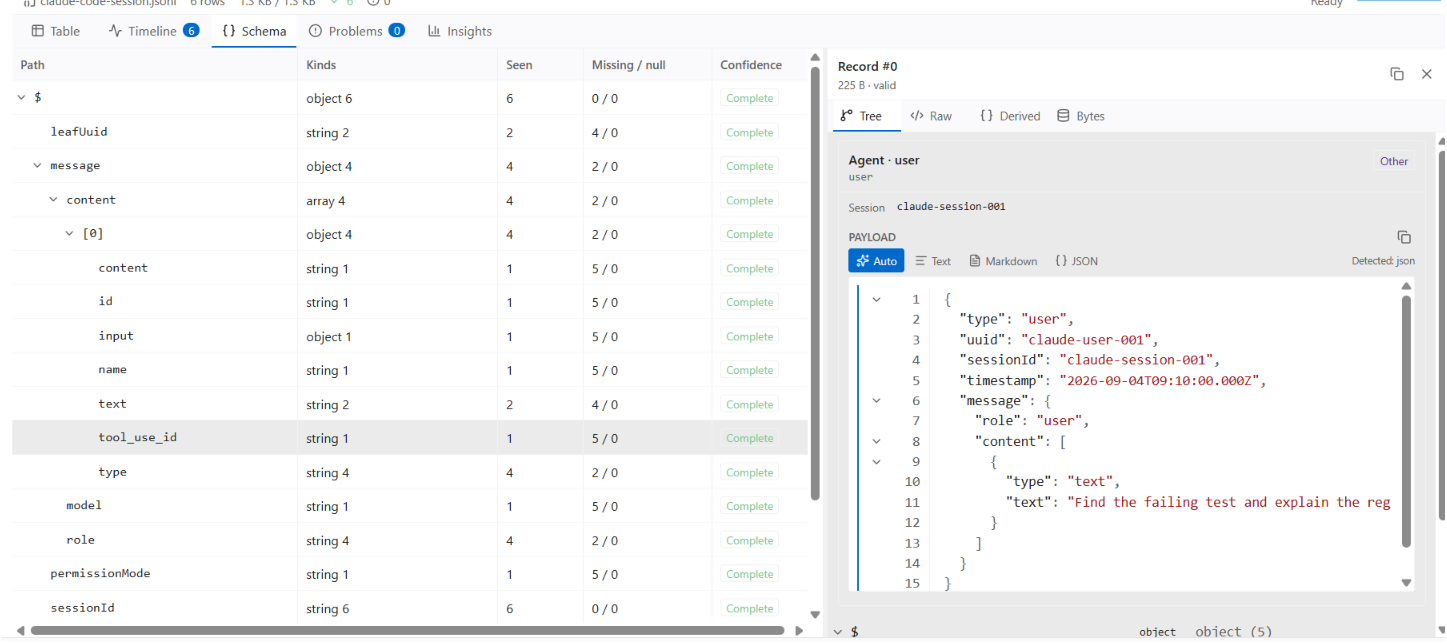
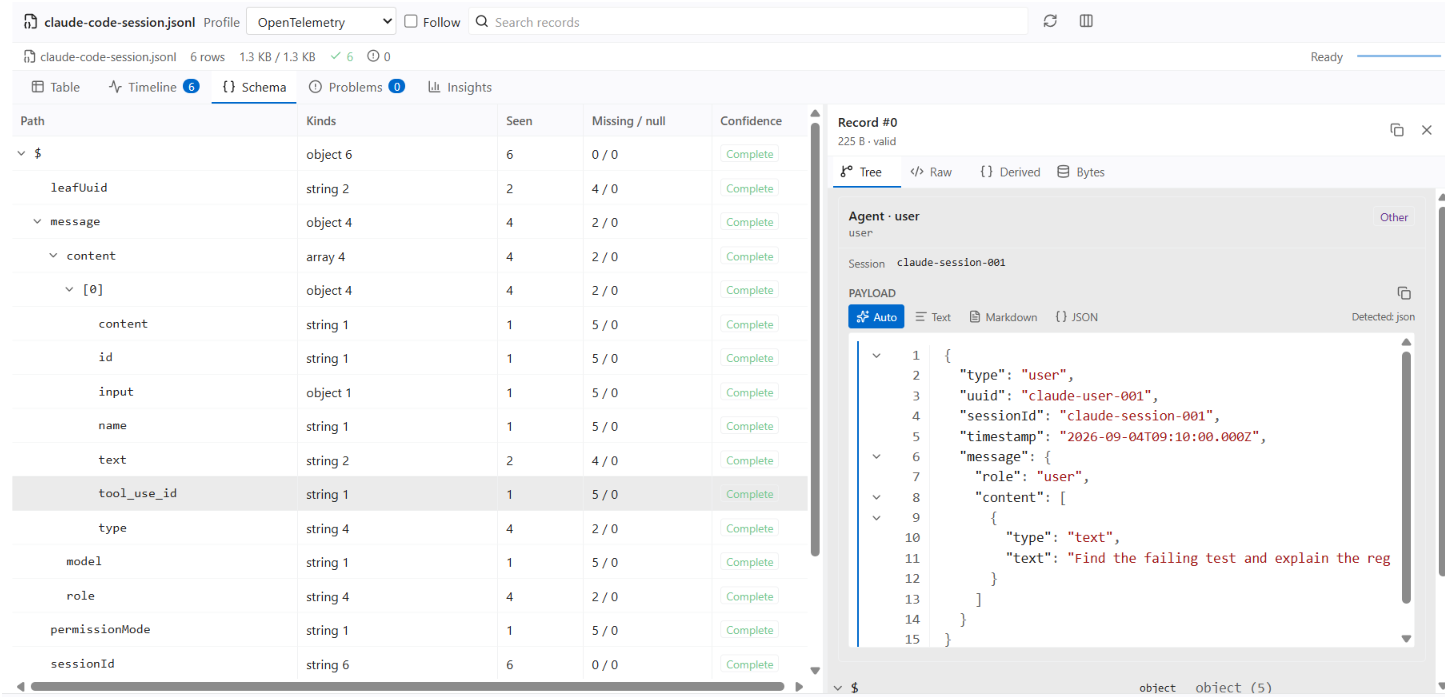
docs: refresh distribution showcase
Replace the public diff showcase with a redacted Claude Code edit, align the README product narrative, and remove obsolete screenshots.

diff --git a/README.md b/README.md
@@ -23,10 +23,6 @@ record available in Raw.
 The screenshots use public-shaped, redacted fixtures prepared in the companion
 harness; they contain no private transcript bodies or machine paths.
 
-### Agent workflow
-
-![Codex agent workflow table](docs/assets/codex-rollout-table.png)
-
 ### Event analysis
 
 ![Codex rollout event insights with category and time distribution views](docs/assets/rollout-event-insights.png)
@@ -39,13 +35,19 @@ harness; they contain no private transcript bodies or machine paths.
 
 ![OpenTelemetry schema with Tree detail](docs/assets/opentelemetry-schema-tree.png)
 
-### Claude session timeline
+### Agent profile timelines
 
-![Claude agent session timeline](docs/assets/claude-timeline.png)
+![Codex agent timeline with turns, messages, reasoning, and tool calls](docs/assets/codex-timeline.png)
 
-### File changes
+![Codex exec timeline with custom tool calls and Tree detail](docs/assets/codex-timeline-exec.png)
 
-![JsonlView rendering a Codex FileChange unified diff](docs/assets/unified-diff-filechange.png)
+![pi coding agent timeline with checkpoints, tool calls, and results](docs/assets/pi-timeline.png)
+
+### Diff and prompt detail
+
+![Claude Code tool result with a long TypeScript unified diff and patch](docs/assets/claude-diff.png)
+
+![pi system prompt sections rendered as Markdown](docs/assets/pi-system-prompt.png)
 
 ## What You Get
 
@@ -56,6 +58,9 @@ harness; they contain no private transcript bodies or machine paths.
 - **Useful semantics:** automatic profiles for Codex, Claude Code, pi coding
   agent, OpenTelemetry, structured application logs, software-engineering
   trajectories, and generic JSONL fallback.
+- **Provider-aware details:** tool results, diff and patch payloads, thinking,
+  checkpoints, and nested system prompt sections remain inspectable in the
+  shared Tree, Raw, Markdown, and JSON detail surfaces.
 - **Safe inspection:** malformed records remain visible, unknown events fall
   back to generic JSON, and the exact source stays available for copying.
 - **Focused analysis:** typed filters, text search, physical paging, row-order
@@ -71,7 +76,11 @@ metadata-bounded view of supported agent session homes. It starts disabled,
 asks for explicit source authorization, and keeps transcript bodies in their
 provider files.
 
-![Opt-in Session Navigator view](docs/assets/claude-code-insights.png)
+![Opt-in Session Navigator with local agent discovery and drag-and-drop source entry](docs/assets/session-navigator-opt-in.png)
+
+### Source entry
+
+![Paste JSONL source with file, folder, agent connection, and drag-and-drop entry points](docs/assets/paste-jsonl-source.png)
 
 ## Install
 
